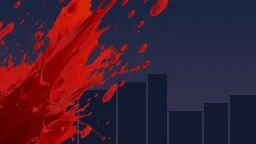
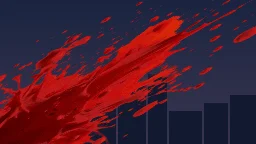
演出APNGメーカー v0.22: 隅から飛び散る血を、向かいの上の隅まで届くように
- 飛ぶ向きの既定を画面の対角線（向かいの上の隅）に。設定は「向きの調整」（±30°、0 で対角線）
- いちばん遠い飛沫が向かいの隅に届くように引きのばす。「届く距離」を追加
- 広がりを少し細くし、隅の濃い所を小さく

Claude-Session: https://claude.ai/code/session_01Jjy5FsQHvCgUVAU7SF1bny

diff --git a/tools/effect-apng-maker/index.html b/tools/effect-apng-maker/index.html
@@ -10,14 +10,14 @@
   <title>演出APNGメーカー｜TRPG WEBツール観測所</title>
   <meta name="description" content="場面転換・天候・ホラー演出などのAPNG素材を、ライブラリから選んで調整し、ココフォリアの部屋で使える形で書き出すツールです。" />
   <link rel="icon" href="../../assets/img/kuma_icon.png?v=20260910" type="image/png" />
-  <link rel="stylesheet" href="./css/effect-apng-maker.css?v=20261116-02" />
+  <link rel="stylesheet" href="./css/effect-apng-maker.css?v=20261116-03" />
 </head>
 <body>
   <div class="studio">
     <header class="studio-header">
       <div class="title-block">
         <p class="eyebrow"><a class="portal-link" id="portalLink" href="../../"><span class="portal-long" data-i18n="portalLong">←TRPG WEBツール観測所</span><span class="portal-short" data-i18n="portalShort">← 観測所</span></a></p>
-        <h1><span data-i18n="title">演出APNGメーカー</span> <span class="version-engrave">v0.21 / 2026.11.16</span></h1>
+        <h1><span data-i18n="title">演出APNGメーカー</span> <span class="version-engrave">v0.22 / 2026.11.16</span></h1>
       </div>
       <p class="lead" data-i18n="lead">場面転換・天候・ホラー演出などのAPNG素材を、ライブラリから選んで調整し、ココフォリアの部屋で使える形で書き出します。</p>
       <div class="header-actions">
@@ -184,8 +184,8 @@
   <div class="toast" id="toast" role="status" aria-live="polite" hidden></div>
 
   <!-- APNG / WebP エンコーダー（文字画像APNGメーカーと同じもの。共通化は後の段階で） -->
-  <script src="./js/apng-encoder.js?v=20261116-02"></script>
-  <script src="./js/webp-encoder.js?v=20261116-02"></script>
-  <script type="module" src="./js/main.js?v=20261116-02"></script>
+  <script src="./js/apng-encoder.js?v=20261116-03"></script>
+  <script src="./js/webp-encoder.js?v=20261116-03"></script>
+  <script type="module" src="./js/main.js?v=20261116-03"></script>
 </body>
 </html>

diff --git a/tools/effect-apng-maker/library/horror/blood-spray/render.js b/tools/effect-apng-maker/library/horror/blood-spray/render.js
@@ -37,14 +37,20 @@ export default {
     const fade = stay ? 1 : 1 - smooth((t - 0.65) / 0.35);
     if (fade <= 0.003) return;
     // 飛ぶ向き（画面の上を 0 として、右へ傾ける角度）と、引きのばし
-    const ang = (P.angle ?? 40) * Math.PI / 180;
-    const k = 1.35 * u * size;           // 絵 540px → 画面の大きさ
-    const along = 2.2, across = 0.95;     // 飛ぶ向きに長く
+    // 既定は「向かいの上の隅」へ向かう向き（画面の対角線）。P.angle で傾け直せる（0 で対角線そのまま）
+    const diag = Math.atan2(W + 24 * u, H + 30 * u);
+    const ang = diag + (P.angle ?? 0) * Math.PI / 180;
+    // 向かいの隅までの長さ。いちばん遠い飛沫がそこへ届くように引きのばす
+    const dist = Math.hypot(W + 24 * u, H + 30 * u);
+    const k = 1.35 * u * size;
+    const reach = P.reach ?? 1;           // 絵 540px → 画面の大きさ
+    // 写真の血の、中心からいちばん遠い飛沫までが約 300px（絵の大きさで）。それが dist に届く倍率
+    const along = (dist * reach) / (300 * k * 1.0), across = 0.72;     // 飛ぶ向きに長く
     const layers = [
       // 細い飛沫まで含む全体：少し遅れて、遠くまで
       { im: st.all, R: 470 * easeOut((t - 0.03) / 0.3, 3), a: smooth((t - 0.04) / 0.12), s: 0.82 + 0.18 * easeOut((t - 0.04) / 0.4), blur: 0 },
       // 中心の濃い所：先に、近くに
-      { im: st.core, R: 300 * easeOut(t / 0.18, 3), a: smooth(t / 0.06), s: 0.7 + 0.3 * easeOut(t / 0.3), blur: 5 * (1 - easeOut(t / 0.25)) }
+      { im: st.core, R: 240 * easeOut(t / 0.18, 3), a: smooth(t / 0.06), s: 0.7 + 0.3 * easeOut(t / 0.3), blur: 5 * (1 - easeOut(t / 0.25)) }
     ];
     const tc = st.tmp.getContext('2d');
     for (const l of layers) {

diff --git a/tools/effect-apng-maker/js/main.js b/tools/effect-apng-maker/js/main.js
@@ -3,7 +3,7 @@
  *   ライブラリ（左）→ 選んだアセットを プレビュー（中央）に重ね、調整（右）で設定を変えて書き出す。
  */
 import { I18N } from './i18n.js';
-import { loadManifest, EffectInstance, defaultParams, frameTimes } from './engine.js?v=20261116-02';
+import { loadManifest, EffectInstance, defaultParams, frameTimes } from './engine.js?v=20261116-03';
 import { Stage } from './stage.js';
 
 const C = window.TextApngCodec;

diff --git a/tools/effect-apng-maker/README.md b/tools/effect-apng-maker/README.md
@@ -1,7 +1,7 @@
 # 演出APNGメーカー（Effect APNG Maker / 연출 APNG 메이커）
 
 場面転換・天候・ホラー演出などのAPNG素材を、ライブラリから選んで調整し、ココフォリアの部屋で使える形で書き出すツール。
-v0.21 は限定テスト版（`noindex`、ポータルのカードなし、直リンクのみ）。
+v0.22 は限定テスト版（`noindex`、ポータルのカードなし、直リンクのみ）。
 
 ## 画面
 
